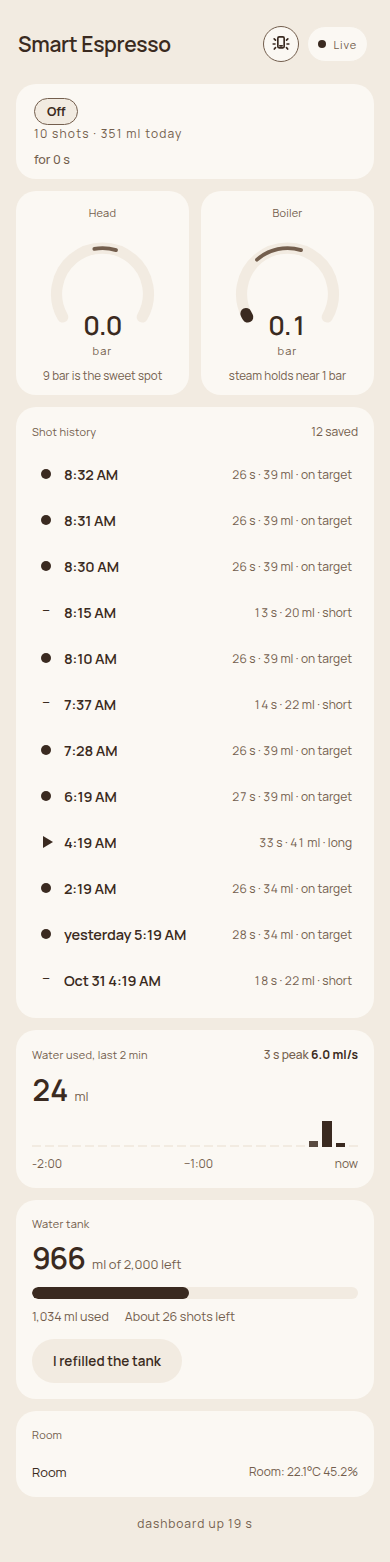
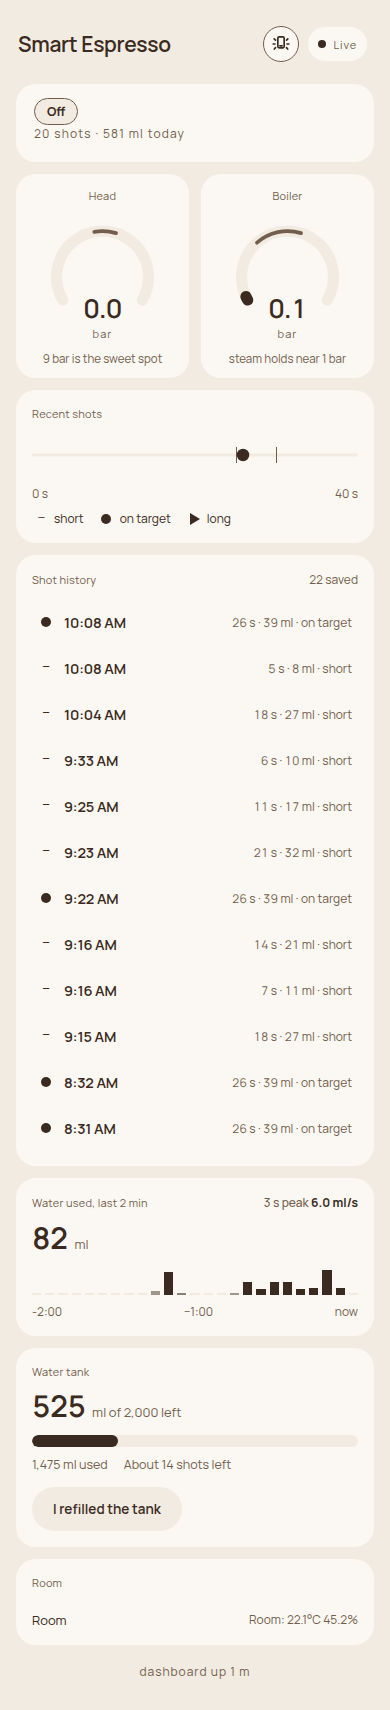
fix: hide an Off duration until it reaches a minute
Off now stays blank under 60 s, the same as Ready. Shell cache is
espresso-shell-v82.

diff --git a/smart_espresso/web/static/dashboard_logic.js b/smart_espresso/web/static/dashboard_logic.js
@@ -206,7 +206,10 @@
     // since_seconds is how long the published state has been held, counted
     // from the transition into it. A Ready line before a minute is just
     // "for 0 s", so the line stays hidden until the minute is real.
-    if (machine.state === "ready" && !(Number(machine.since_seconds) >= 60)) {
+    if (
+      (machine.state === "ready" || machine.state === "off") &&
+      !(Number(machine.since_seconds) >= 60)
+    ) {
       return "";
     }
     return durationLine(machine.state, machine.since_seconds);

diff --git a/smart_espresso/web/static/sw.js b/smart_espresso/web/static/sw.js
@@ -2,7 +2,7 @@
 // still opens (slightly stale, clearly marked so by the page itself) when
 // the machine's server hiccups. Sensor data is never cached: /api/* always
 // goes to the network.
-const CACHE = 'espresso-shell-v75';
+const CACHE = 'espresso-shell-v82';
 const SHELL = [
   '/',
   '/dashboard_logic.js',

diff --git a/smart_espresso/test/test_dashboard_logic.py b/smart_espresso/test/test_dashboard_logic.py
@@ -180,7 +180,7 @@ class TestGlance:
         )
         assert (
             call("logic.heroDetail({state:'off', since_seconds:4, shot:null}, null)")
-            == "for 4 s"
+            == ""
         )
         assert (
             call("logic.heroDetail({state:'steaming', since_seconds:26, shot:null}, 1)")
@@ -524,6 +524,13 @@ class TestHero:
             assert call("logic.heroDetail(%s, 1.2)" % (young % seconds)) == ""
         assert call("logic.heroDetail(%s, 1.2)" % (young % 60)) == "for 1 min"
         assert call("logic.heroDetail(%s, 1.2)" % (young % 120)) == "for 2 min"
+
+    def test_off_detail_waits_until_a_minute(self):
+        young = "{state:'off', since_seconds:%s, shot:null}"
+        for seconds in (0, 2, 59, 59.9):
+            assert call("logic.heroDetail(%s, null)" % (young % seconds)) == ""
+        assert call("logic.heroDetail(%s, null)" % (young % 60)) == "for 1 min"
+        assert call("logic.heroDetail(%s, null)" % (young % 120)) == "for 2 min"
 
 
 class TestLastShotChip:

diff --git a/smart_espresso/test/test_dashboard_contrast.py b/smart_espresso/test/test_dashboard_contrast.py
@@ -158,7 +158,7 @@ class TestDashboardContrast:
         assert "fonts.googleapis.com" not in self.worker
         assert "fonts.gstatic.com" not in self.worker
         assert "/fonts/manrope.woff2" in self.worker
-        assert "espresso-shell-v75" in self.worker
+        assert "espresso-shell-v82" in self.worker
         font = PAGE.parent / "fonts" / "manrope.woff2"
         assert font.is_file()
         assert font.read_bytes()[:4] == b"wOF2"
